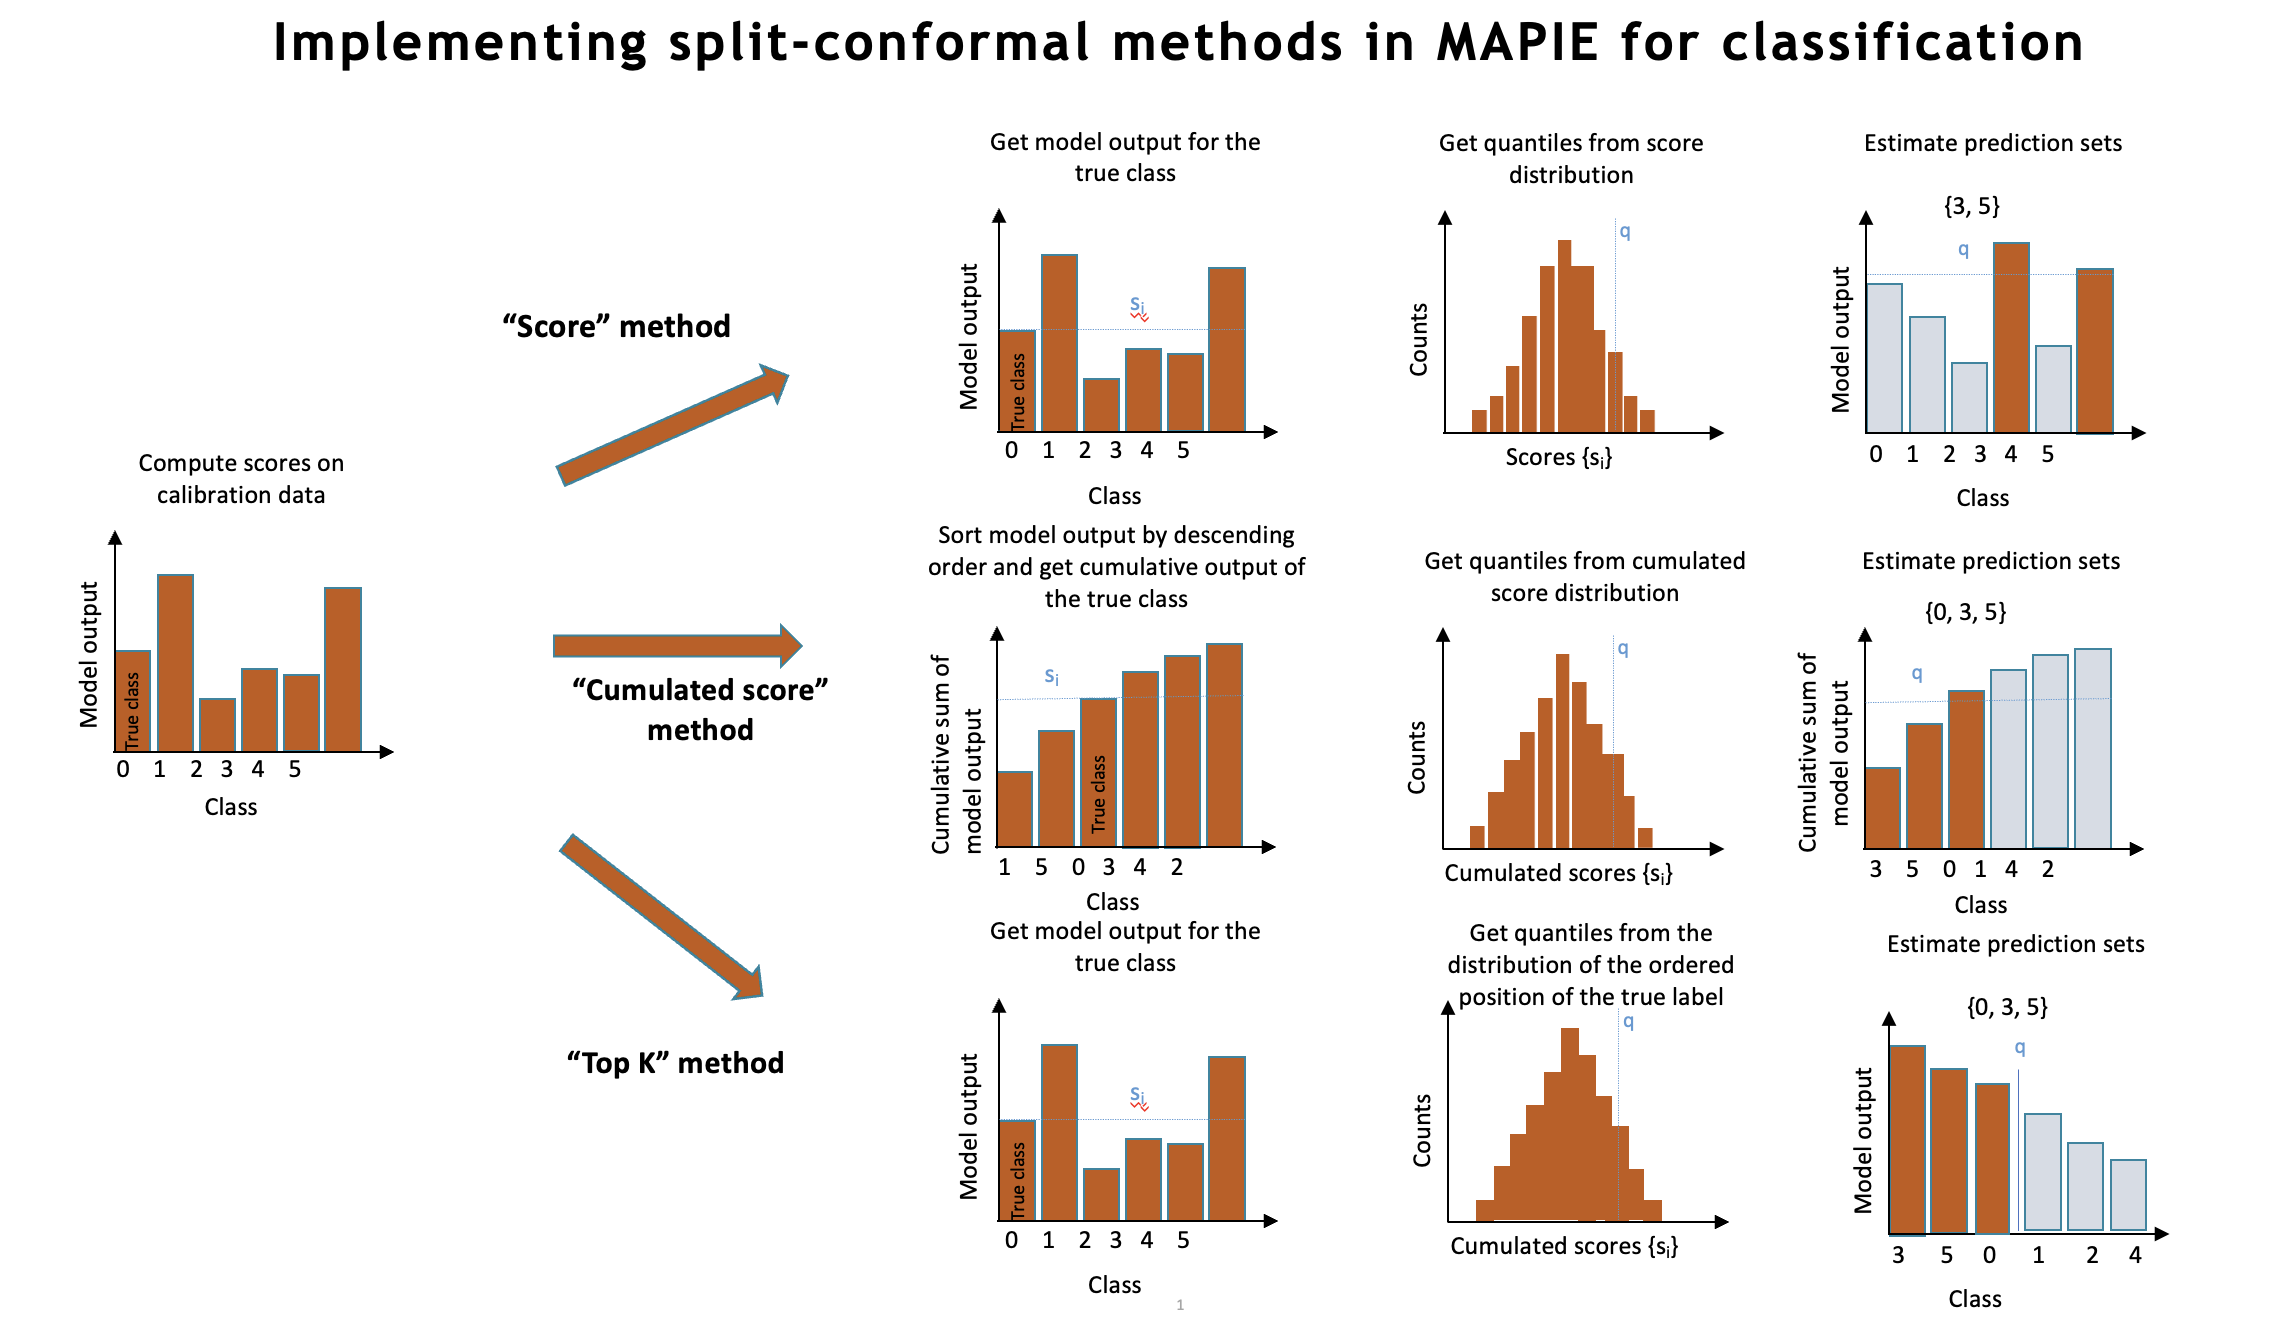
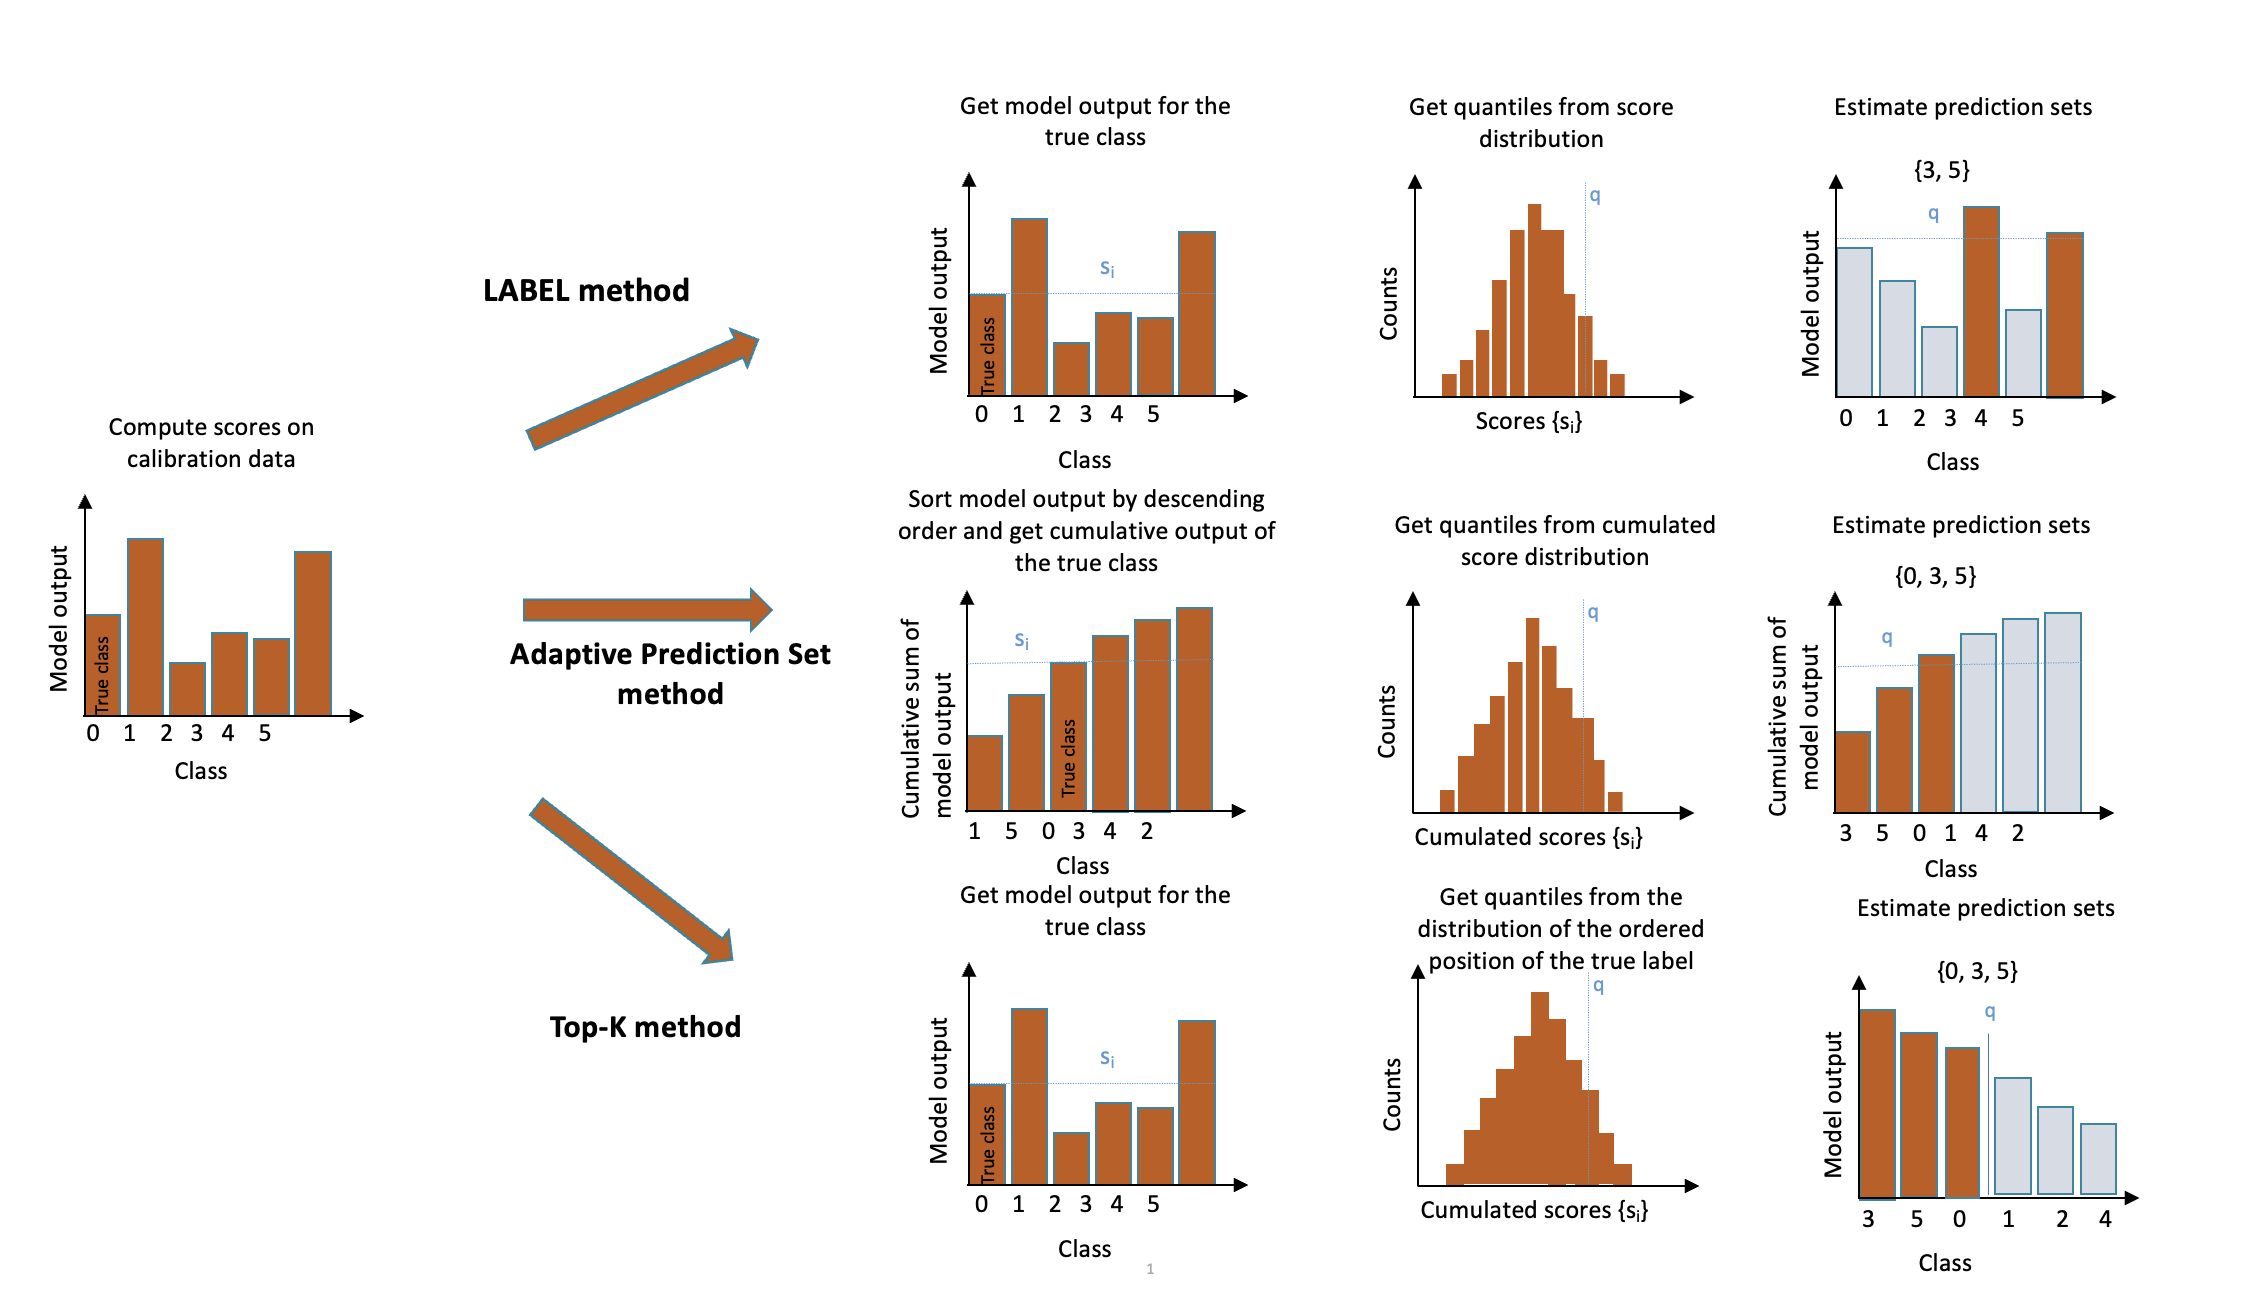
ENH: remove typo on classification methods image

diff --git a/doc/theoretical_description_classification.rst b/doc/theoretical_description_classification.rst
@@ -9,7 +9,12 @@ Theoretical Description
 
 Three methods for multi-class uncertainty-quantification have been implemented in MAPIE so far :
 LABEL [1], Adaptive Prediction Sets [2, 3] and Top-K [3].
-The difference between these methods is the way the conformity scores are computed.
+The difference between these methods is the way the conformity scores are computed. 
+The figure below illustrates the three methods implmented in MAPIE:
+
+.. image:: images/classification_methods.png
+   :width: 600
+   :align: center
 
 1. LABEL
 --------
@@ -81,12 +86,6 @@ The prediction sets are build by taking the :math:`\hat{q}^{th}` higher scores. 
 .. math:: 
    \hat{C}(X_{test}) = \{\pi_1, ..., \pi_{\hat{q}}\} 
 
-
-The figure below illustrates the three above methods. 
-
-.. image:: images/classification_methods.png
-   :width: 600
-   :align: center
 
 
 4. Split- and cross-conformal methods
